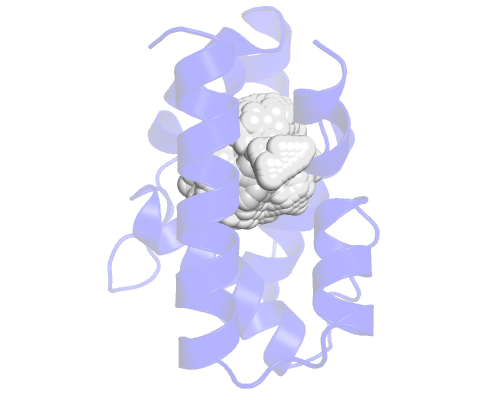
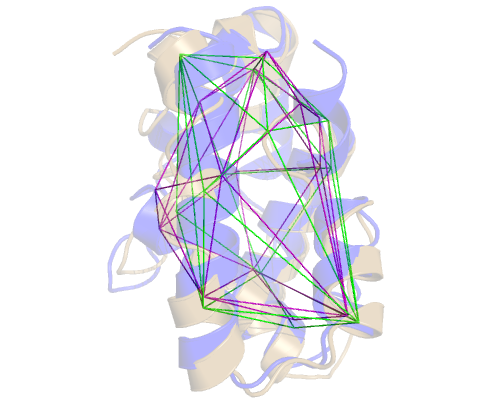
Done with new quickstart

Changed region(s): [[0.21, 0.0, 0.78, 1.0], [0.21, 0.12, 0.24, 0.15]]

diff --git a/docs/quickstart.md b/docs/quickstart.md
@@ -3,180 +3,241 @@ id: quickstart
 title: Quickstart  
 ---
 
-
-
 Let's start with an easy example of what a typical use case would be like.
-We'll be calculating the volume of the main cavity of a truncated haemoglobin along
+We'll be calculating the volume of the main cavity of an Odorant Binding Protein along
 a **very** short trajectory.
 You can get all files used in this example [here](https://github.com/anadynamics/ANA2/tree/master/aux/quickstart).
 
 ![](assets/quickstart/quickstart_1.png)
 
-You can imagine that the pocket we are after is the one delimited by those 4 
-α-helices. The exact definition of a pocket is hard to define (probaly
-impossible, since there is no such thing), but we'll do our best.
+The pocket we are after is located in the center, delimited by those α-helices.
+The exact definition of a pocket is hard to define but we'll do our best.
 
 First, let's run ANA naively, without any configuration file:
+
 ```
-> ANA2 1mtn.pdb -f 1_salida
+> ANA2 input_pdb.pdb -f 1_cavity
 
-Pocket 1        124.569
-Pocket 2        191.057
-Pocket 3        475.634
-Pocket 4        17.2347
+Pocket  253.536
+Pocket  38.5048
 ```
-We get 4 output files, each with a different pocket. We load them on pymol,
-along with the input structure and see something like this:
 
-![](assets/quickstart/pic_1_mtn_pockets.png)
+The input structure always go first, so you won't need to write its flag, this
+is the only mandatory argument when running ANA. The flag `-f` is the shorthand
+for the `--output_draw` argument. **1_cavity** will be the prefix for all
+the output cavities ANA finds. 
 
-The 3rd pocket (the salmon colored one) is close to the one we want, so
-we'll choose that one. Later we'll see how to fix that protuberance going
-outside the area delimited by the four helices (on the left of the image).
+In this case we get 2 output files, each with a different pocket. If we load
+them on pymol (or any other biomolecule visualizer), along with the input
+structure, we'll see something like this:
 
-In order to draw an included area to track this pocket, we need the residues
-that surround it and a 1st approach to get them is to get the wall aminoacids.
-In order to get them, we have to write our 1st configuration file:
+![](assets/quickstart/quickstart_2.png)
+
+The first pocket (the salmon colored one) is close to the one we want, so
+we'll choose that one. We can also guess there should be more empy space under
+it but for some reason ANA is not showing it. We'll see how to fix this.
+
+In order to draw an Included Area to track this pocket, we need the residues
+that surround it and a first approach to get them is to get what ana calls
+*wall residues* or *wall atoms*.
+In order to get them, we have to write our first configuration file. ANA
+configuration files are just plain text files where each line is composed of an
+option, followed by a '=' character, and the appropiate arguments. So we will
+create a new file, write the following contentents in it and call it
+**config_1.cfg**. The **.cfg** extension tells the VIM editor this is a config
+file, so VIM can provide appropiate highlighting. This is a nice-to-have, but is
+not necessary, ANA can't tell the difference.
+
 ```
 list_wall = residue
 separator = +
 ```
+
 The *residue* keyword tells ANA we want a list of amino acids, the
 alternative would be to use the *atom* keyword, to get every atom that is in
-contact with the cavity, something which obviously ends up generating an
-annoyingly long list sou you'll probably never use it.
+contact with the cavity. We don't need that level of detail, so we'll stay with
+the residues.
 
-We'll see later why we specified '+' as the separator character. Let's run it:
+So, we will get a list of residues lining each cavity and each residue will be
+separated with the character '+'. We'll see later why we specified '+' as the
+separator character. Let's run it:
+
 ```
-> ANA2 1mtn.pdb -c 1.cfg -f 1_salida -w wall_1mtn
+> ANA2 input_pdb.pdb -c config_1.cfg -f 1_cavity -w wall_+
 ```
 
-Thus, we get the output file called *wall_1mtn*. This is the section that
+As you can see, we have 2 new arguments. `-c` or `--config_file` is the flag
+for the configuration file and the `-w` or `--output_wall` tells ANA the name of
+the text file that will contain the cavities lining residues.
+
+Thus, we get the output file called *wall_input_pdb*. This is the section that
 matters to us:
-```
-pocket_3        Frame: 1
 
-RESN |  VAL+VAL+PHE+TYR+PHE+PHE+THR+LEU+LYS+GLN+GLU+PHE+PHE+TYR+MET+VAL+HID+ARG+ILE+HID+VAL+LEU+ILE+LEU+OXY
-RESI |  28+29+32+33+45+46+49+54+57+58+60+61+62+72+77+80+81+84+86+90+94+98+119+122+128
+```
+pocket_1        Frame: 1
+
+RESN |  LEU+ILE+LEU+PHE+ILE+VAL+MET+LEU+VAL+VAL+SER+LYS+MET+VAL
+RESI |  10+50+51+54+56+71+72+75+104+107+108+111+113+116
 -------------
 ```
-We now can copy the residue list and see them on pymol. Pymol needs the residue
+
+We can now copy the residue list and see them on pymol. Pymol needs the residue
 list to be separated with '+' characters, like this:
+
 ```
 select resi 28+29+32+33+45+46+49+54+57+58+60+61+62+72+77+80+81+84+86+90+94+98+119+122+128
 ```
 
-![](assets/quickstart/pic_2_mtn_wall_resis.png)
+![](assets/quickstart/quickstart_3.png)
 
 And that's why setting the *separator* variable is useful. If you want a more
 readable (tab separated) list you can simply remove that line in the config
-file:
+file or just comment it out. I created a new configuration file called
+**config_2.cfg**:
+
 ```
 list_wall = residue
+#separator = +
 ```
-and re-run it:
-```
-> ANA2 1mtn.pdb -c 2.cfg -f 1_salida -w wall_1mtn
-```
-to get a nicer output:
-```
-pocket_3        Frame: 1
 
-RESN |  VAL     VAL     PHE     TYR     PHE     PHE     THR     LEU     LYS     GLN     GLU     PHE     PHE     TYR     MET     VAL     HID     ARG     ILE     HID     VAL     LEU     ILE     LEU     OXY 
-RESI |  28      29      32      33      45      46      49      54      57      58      60      61      62      72      77      80      81      84      86      90      94      98      119     122     128
+and re-run it:
+
+```
+> ANA2 input_pdb.pdb -c config_2.cfg -f 1_cavity -w wall_
+```
+
+And now we have a new file, **wall_** with a nicer output:
+
+```
+pocket_1        Frame: 1
+
+RESN |  LEU     ILE     LEU     PHE     ILE     VAL     MET     LEU     VAL     VAL     SER     LYS     MET     VAL
+RESI |  10      50      51      54      56      71      72      75      104     107     108     111     113     116
 -------------  
 ```
 
+Now, let's paste this list in a new configuration file to draw an Included Area.
 
-Now, let's paste this list in the configuration file to draw an included area.
 ```
 included_area_residues = 28      29      32      33      45      46      49      54      57      58      60      61      62      72      77      80      81      84      86      90      94      98      119     122     128 
-included_area_precision = 1
 ```
-and run it using the *--tool_check_CH* or *-t* flag. This will draw the convex hull obtained
-by triangulating the alpha carbons from the residues listed in the 
-*included_area_residues* variable.
+
+and run it using the *--tool_check_CH* or *-t* flag. This will draw the convex
+hull obtained by triangulating the alpha carbons from the residues listed in the 
+*included_area_residues* variable. Note that whenever we use this flag, ANA
+will skip the cavity calculation and just calculate the Included Area Convex
+Hull and write it into a PDB file with the name of our choosing, in this case:
+**ch_3_testing.pdb**.
 
 ```
-> ANA2 1mtn.pdb -c 3.cfg -f 1_salida --tool_check_CH ch_3_testing
+> ANA2 input_pdb.pdb -c config_3.cfg -f 1_cavity -t ch_3_testing
 ```
 If we load the *ch_3_testing.pdb* file on pymol, we'll see something like this:
 
-![](assets/quickstart/pic_3_mtn_ch_testing.png)
+![](assets/quickstart/quickstart_4.png)
 
 Now, as we said before, this was not exactly the pocket we were looking for. We
 have to modify the list of residues to define a proper cavity using the convex
 hull method.
 
-It does not take long to get a sense of the resulting
-convex hull, given a set of points (alpha carbons, in our case). Whenever you
-see a problematic vertex (for example, the residue 72 that is causing the 
-included area to have a protuberance to the left), remove it from the list.
+It does not take long to get a sense of the resulting convex hull, given a set
+of points (alpha carbons, in our case). Whenever you see a problematic vertex,
+remove it from the list. And if you want to include an area that's being
+discarded, include a few of the residues that surround it.
 
 Also, you don't want too many unnecessary residues listed in the
-*included_area_residues* variable, since this will result in a minor though
-unnecessary overhead.
+*included_area_residues* variable since this will result in a minor, though
+unnecessary, overhead.
 
 After pruning the list (removing several residues and adding new ones to
-get a more elongated cavity), we are left with this config file:
+get a more elongated cavity), we are left with this new config file:
+
 ```
 included_area_residues = 25      29      36      49      54      57      58      65      81      90      94      102      115     122     128 
 included_area_precision = 1
 ```
+
+As you can see, I added a new option: `included_area_precision`. When this
+option is set to `0`, ANA will triangulate the whole molecule and then discard
+the tetrahedrons that don't intersect the Included Area. But if it's set to
+`1`, it will also perform intersections between the Included Area and those
+tetrahedrons that are not completely enclosed by the Included Area. For more
+info about this, check the relevant [paper](https://pubs.acs.org/doi/10.1021/acs.jctc.7b00744#:~:text=We%20make%20use%20of%20variations,volume%20exhibit%20more%20flexible%20cavities.).
+
 We re-run the check to see the resulting convex hull:
+
 ```
-> AN2 1mtn.pdb -c 4.cfg -f 1_salida -t ch_4_testing
+> AN2 input_pdb.pdb -c config_4.cfg -f 1_cavity -t ch_4_testing
 ```
 and load the *ch_4_testing.pdb* file on pymol:
 
-![](assets/quickstart/pic_4_mtn_ch_testing.png)
+![](assets/quickstart/quickstart_5.png)
 
 We're now ready to track our pocket. We use the *-d* flag (think of dynamics)
 to include the trajectory
 
 ```
-> AN2 1mtn.pdb -c 4.cfg -d mtn.nc -f salida
+> AN2 input_pdb.pdb -c config_4.cfg -d input_trajectory.nc -f 5_cavity
 
-1       431.968
-2       429.337
-3       406.303
-4       469.237
-5       444.573
-6       466.983
-7       392.346
-8       486.814
-9       438.019
-10      455.87
+Frame 1 87.2512
+Frame 2 54.1299
+Frame 3 56.8417
+Frame 4 52.983
+Frame 5 81.8424
+Frame 6 69.003
+Frame 7 43.4421
+Frame 8 42.6606
+Frame 9 50.9236
+Frame 10        95.8178
+Frame 11        79.5727
+Frame 12        43.422
+Frame 13        63.2107
+Frame 14        55.336
+Frame 15        62.7068
+Frame 16        36.4506
+Frame 17        64.9357
+Frame 18        64.1257
+Frame 19        44.2278
+Frame 20        43.2665
 Writing output...
 Done
 ```
-And now *salida.pdb* is a trajectory file with our pocket dynamics. 
-Using the *-t* flag you can see how the included area changed during the
-trajectory, following the listed residues.
-```
-> ANA2 1mtn.pdb -c 4.cfg -d mtn.nc -f salida -t ch_5_testing
-```
-Now, the output of *--tool_check_CH* is also a trajectory file. If we load it and zoom
-in, we can see the differences between the original (purple) static convex hull
-and the dynamic one (green):
 
-![](assets/quickstart/pic_5_mtn_ch_differences.png)
+And now *5_cavity.pdb* is a trajectory file with our pocket dynamics. 
+Using the *-t* flag you can see how the Included Area changed during the
+trajectory, following the listed residues.
+
+```
+> ANA2 input_pdb.pdb -c config_4.cfg -d mtn.nc -f cavity -t ch_5_testing
+```
+
+The output of *-t* is also a trajectory file (in the PDB format). If we
+load it, we can see the differences between the original (purple) static convex
+hull and the dynamic one (green). In sand colored cartoon representation,
+you can see a random frame from the trajectory:
+
+![](assets/quickstart/quickstart_6.png)
+
+This trajectory came from a long Constant pH Replica Exchange MD, so the
+structure has experienced significant changes. Nevertheless, ANA's Included Area
+will follow the residues along the trajectory and update the Convex Hull at
+each frame.
 
 Now you can play with the files if you want. You can change the cavity
 definition if you don't agree with mine and re-run the calculation. The good
-news is that, given a longer-than-10-frames trajectory, (which is usually the
+news is that, given a longer than 10 frames trajectory, (which is usually the
 case) there won't be much difference.
-
 
 
 ### Addendum
 
 1. Remember that whenever you use a tool like *--tool_check_CH*, ANA will only perform
-that task and exit, so you won't get any output other than the output from the
-tool.
+that task and exit, so you won't get any output other than the output from
+that particular tool.
+
 2. You can redirect ANA's volume output to a file like this:
 ```
-> ANA2 1mtn.pdb -c 4.cfg -d mtn.nc -f salida -o output_vol
+> ANA2 input_pdb.pdb -c config_4.cfg -d mtn.nc -f cavity -o output_vol
 Writing output...
 Done
 ```
